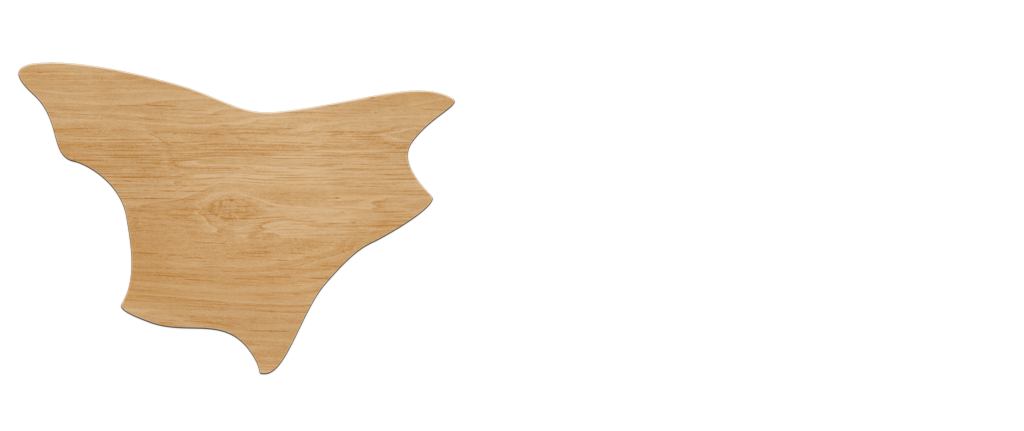
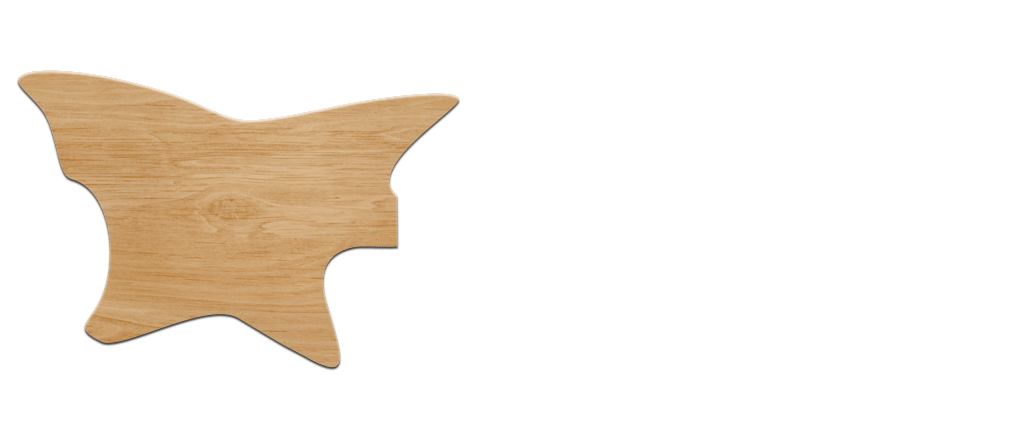
Automated commit at 2015-01-08 20:09:27 UTC by middleman-deploy 0.3.0

Changed region(s): [[0.0, 0.1206, 0.4688, 0.8747]]

diff --git a/build/index.html b/build/index.html
@@ -115,6 +115,14 @@
                     </label>
                   </div>
                   <div class='radio'>
+                    <label for='body_shape-2'>
+                      <input id='body_shape-2' name='body_shape' type='radio' value='Modern Shark'>
+                        Modern Shark
+                      </input>
+                      <div><img src="../img/builds/modern_shark/modern_shark.png" /></div>
+                    </label>
+                  </div>
+                  <div class='radio'>
                     <label for='body_shape-other'>
                       <input class='other' id='body_shape-other' name='body_shape' type='radio' value='OTHER'>
                         Other
@@ -231,6 +239,43 @@
                 <!-- .col-sm-6 -->
                 <!-- /%p= locals[:help] -->
               </div>
+              <div class='row form-group' data-wood='hw'>
+                <div class='col-sm-3'>
+                  <label class='control-label'>
+                    Hardware Material
+                    <!-- =section -->
+                  </label>
+                </div>
+                <div class='col-sm-9'>
+                  <div class='radio'>
+                    <label for='body_hardware_material-0'>
+                      <input checked='1' id='body_hardware_material-0' name='body_hardware_material' type='radio' value='Chrome'>
+                        Chrome
+                      </input>
+                    </label>
+                  </div>
+                  <div class='radio'>
+                    <label for='body_hardware_material-1'>
+                      <input id='body_hardware_material-1' name='body_hardware_material' type='radio' value='Black'>
+                        Black
+                      </input>
+                    </label>
+                  </div>
+                  <div class='radio'>
+                    <label for='body_hardware_material-other'>
+                      <input class='other' id='body_hardware_material-other' name='body_hardware_material' type='radio' value='OTHER'>
+                        Other
+                      </input>
+                    </label>
+                    <div class='other-value' style='display:none;padding-left:16px'>
+                      <input class='input-other-value' id='body_hardware_material-other-value' name='body_hardware_material-other-value' placeholder='Other Value' type='text'>
+                    </div>
+                  </div>
+                  <div class='text-muted'></div>
+                </div>
+                <!-- .col-sm-6 -->
+                <!-- /%p= locals[:help] -->
+              </div>
               <div class='row form-group'>
                 <div class='col-sm-3'>
                   <label class='control-label'>
@@ -272,43 +317,6 @@
                     </div>
                   </div>
                   <div class='text-muted'>You can create the size that is best for you</div>
-                </div>
-                <!-- .col-sm-6 -->
-                <!-- /%p= locals[:help] -->
-              </div>
-              <div class='row form-group' data-wood='hw'>
-                <div class='col-sm-3'>
-                  <label class='control-label'>
-                    Hardware Material
-                    <!-- =section -->
-                  </label>
-                </div>
-                <div class='col-sm-9'>
-                  <div class='radio'>
-                    <label for='body_hardware_material-0'>
-                      <input checked='1' id='body_hardware_material-0' name='body_hardware_material' type='radio' value='Chrome'>
-                        Chrome
-                      </input>
-                    </label>
-                  </div>
-                  <div class='radio'>
-                    <label for='body_hardware_material-1'>
-                      <input id='body_hardware_material-1' name='body_hardware_material' type='radio' value='Black'>
-                        Black
-                      </input>
-                    </label>
-                  </div>
-                  <div class='radio'>
-                    <label for='body_hardware_material-other'>
-                      <input class='other' id='body_hardware_material-other' name='body_hardware_material' type='radio' value='OTHER'>
-                        Other
-                      </input>
-                    </label>
-                    <div class='other-value' style='display:none;padding-left:16px'>
-                      <input class='input-other-value' id='body_hardware_material-other-value' name='body_hardware_material-other-value' placeholder='Other Value' type='text'>
-                    </div>
-                  </div>
-                  <div class='text-muted'></div>
                 </div>
                 <!-- .col-sm-6 -->
                 <!-- /%p= locals[:help] -->

diff --git a/real-time/index.html b/real-time/index.html
@@ -14,9 +14,6 @@
     <script src='https://cdnjs.cloudflare.com/ajax/libs/underscore.js/1.7.0/underscore-min.js'></script>
     <script src='https://cdn.firebase.com/js/client/2.0.6/firebase.js'></script>
     <script src='/js/real-time.js'></script>
-    <!-- %script(src='/js/all/log.js') -->
-    <!-- %script(src='/js/all/string.js') -->
-    <!-- %script(src='/js/all/pos.js') -->
   </head>
   <body>
     <nav class='navbar navbar-default navbar-fixed-top' role='navigation'>
@@ -57,10 +54,13 @@
           <label class='btn btn-primary'>
             <input id='build-option-2' name='build-option' type='radio' value='1'>Shark</input>
           </label>
+          <label class='btn btn-primary'>
+            <input id='build-option-2' name='build-option' type='radio' value='2'>Modern Shark</input>
+          </label>
         </div>
       </div>
       <div class='container'>
-        <h2>Details</h2>
+        <h2>Wood Details</h2>
         <div class='row'>
           <div class='col-lg-4 col-md-6 col-sm-12'>
             <label>Body</label>

diff --git a/js/real-time.js b/js/real-time.js
@@ -87,11 +87,11 @@
 		body:  	["walnut", "alder", 		"mahogany"],
 		cap:  	["walnut", "maple", 		"spalted_maple", 	"birdseye_maple", 	"figured_maple"],
 		neck:  	["walnut", "rosewood", 	"ebony", 					"birdseye_maple"],
-		head:  	["walnut", "maple", 		"spalted_maple", 	"birdseye_maple"],
+		head:  	["walnut", "maple", 		"spalted_maple", 	"birdseye_maple", "none"],
 		hw:  	  ["chrome"],
 	}
 
-	var Build = ["manta", "shark"]
+	var Build = ["manta", "shark", "modern_shark"]
 
 	$('#aReset').on('click', function(){
 		resetParts()

diff --git a/js/builder.js b/js/builder.js
@@ -141,7 +141,7 @@ $(function(){
 
   // Set global build var  
   function setBuild(build){
-    $BUILD = build.toLowerCase()
+    $BUILD = build.toLowerCase().replace(/\s/g,'_')
   }
 
   // From url
